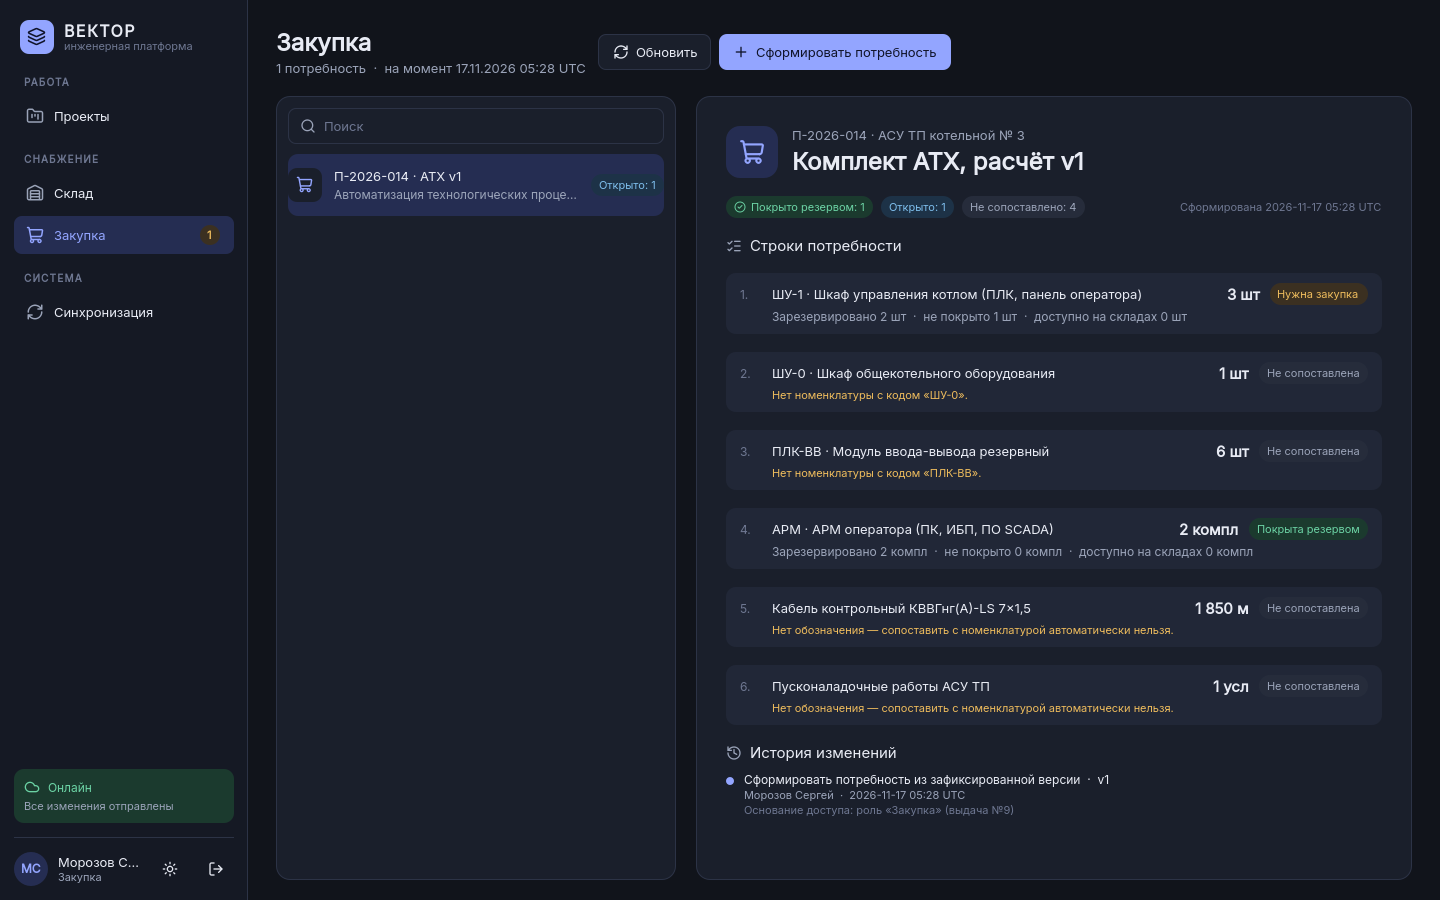
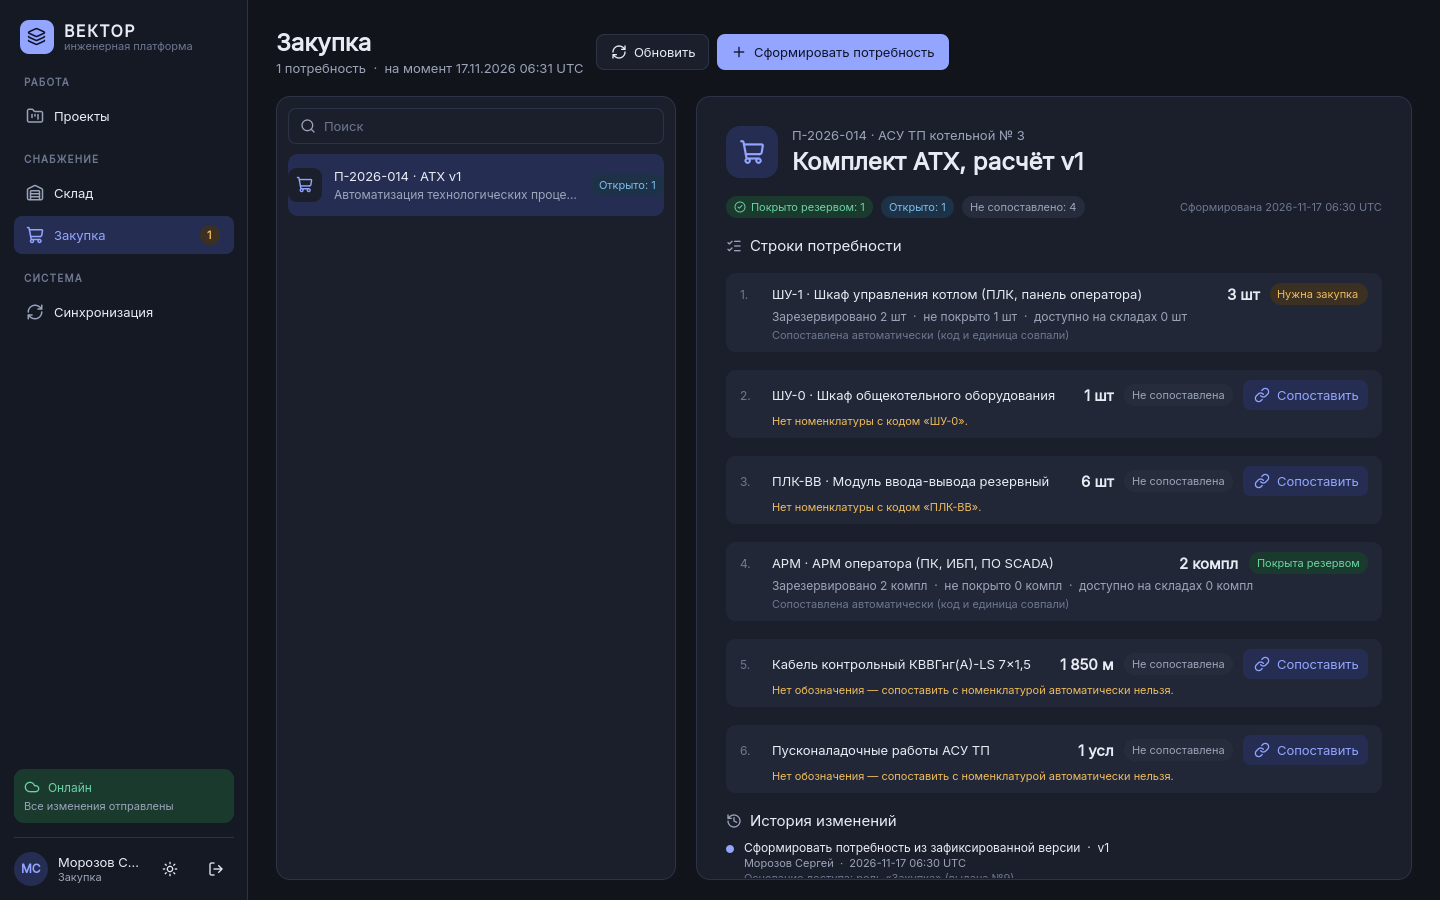
client: «Сопоставить» / «Изменить» у строки потребности — ручное сопоставление в разделе «Закупка» (A-25)
Диалог: только действующие позиции той же единицы, причина обязательна, версия потребности передаётся
(конфликт при параллельной правке). Подпись «Сопоставлена автоматически / вручную: причина». Кнопка — только
закупке, при связи и пока под строку нет резервов. Демо: кабель КВВГнг 7×1,5 в метрах (строка расчёта без
обозначения). Иконка Lucide link (ISC). Скриншоты 15, 17, новый 18.
Откат: git revert (сервер продолжит принимать команду, в интерфейсе её не будет).

diff --git a/src/vector/client/qml/ProcurementPage.qml b/src/vector/client/qml/ProcurementPage.qml
@@ -8,6 +8,8 @@ import QtQuick.Layouts
 //    Потребность — не заказ: она показывает, что нужно, что уже зарезервировано и чего не хватает.
 //  * В потребности нет цен: цены — данные расчёта, закупке в этом срезе не раскрываются.
 //  * Строка сопоставляется с номенклатурой по ТОЧНОМУ коду и единице; иначе — «не сопоставлена» с причиной.
+//    Закупка может сопоставить строку вручную («Сопоставить», A-25): позиция с той же единицей, причина
+//    обязательна, пока под строку нет резервов. Каждое решение сохраняется в истории потребности.
 //  * «Доступно» по складам — снимок «на момент …»; ГИП/РП видят потребность своего проекта без остатков
 //    (у них нет права на склад) — там «неизвестно», а не «0».
 //  * Формирование и резерв — только при связи с сервером.
@@ -87,10 +89,17 @@ MasterDetail {
                     VButton { visible: nv.can_reserve === true && !!modelData.item_id && Number(modelData.coverage.open) > 0
                               text: "Зарезервировать"; compact: true; kind: "soft"; iconName: "bookmark"
                               onClicked: lineReserve.openFor(modelData) }
+                    // Ручное сопоставление — закупка, при связи и пока под строку ничего не зарезервировано.
+                    VButton { objectName: "btnMatch"; visible: nv.can_match === true && modelData.can_rematch === true
+                              text: modelData.item_id ? "Изменить" : "Сопоставить"; compact: true
+                              kind: modelData.item_id ? "ghost" : "soft"; iconName: "link"
+                              onClicked: lineMatch.openFor(modelData) }
                 }
                 Text { visible: modelData.item_id !== null && modelData.item_id !== undefined
                        text: "Зарезервировано " + modelData.reserved_label + "  ·  не покрыто " + modelData.open_label + "  ·  доступно на складах " + modelData.available_label
                        color: Theme.textMuted; font.family: Theme.family; font.pixelSize: Theme.fsS; Layout.fillWidth: true; Layout.leftMargin: 32; wrapMode: Text.Wrap }
+                Text { visible: (modelData.match_label || "") !== ""; text: modelData.match_label || ""
+                       color: Theme.textFaint; font.family: Theme.family; font.pixelSize: Theme.fsXs; Layout.fillWidth: true; Layout.leftMargin: 32; wrapMode: Text.Wrap }
                 Text { visible: (modelData.match_note || "") !== ""; text: modelData.match_note || ""
                        color: Theme.warning; font.family: Theme.family; font.pixelSize: Theme.fsXs; Layout.fillWidth: true; Layout.leftMargin: 32; wrapMode: Text.Wrap }
             }
@@ -132,4 +141,29 @@ MasterDetail {
         VField { id: lrReason; objectName: "lrReason"; label: "Основание резерва"; required: true; placeholder: "Под монтаж …" }
     }
     Cmd { id: cLine; dialog: lineReserve }
+
+    // ---------- ручное сопоставление строки с номенклатурой (A-25)
+    FormDialog {
+        id: lineMatch
+        objectName: "lineMatch"
+        property var line: null
+        // Кандидаты: действующие позиции с ТОЙ ЖЕ единицей, кроме текущей (пересчёт единиц не выполняется).
+        readonly property var candidates: line ? (sov.items || []).filter(i => i.active !== false && i.unit === line.unit && i.id !== line.item_id)
+                                                     .map(i => ({ id: i.id, label: i.code + " · " + i.name })) : []
+        title: line ? (line.item_id ? "Изменить сопоставление: " : "Сопоставить строку: ") + (line.code || line.name) : ""
+        subtitle: line ? "«" + line.name + "», " + line.qty_label + ". Выберите позицию номенклатуры с единицей «" + line.unit
+                         + "» и укажите, почему она подходит. Решение сохранится в истории потребности." : ""
+        confirmText: "Сопоставить"
+        canConfirm: lmItem.currentValue !== "" && lmItem.currentValue !== undefined && lmReason.text.trim() !== ""
+        function openFor(l) { line = l; lmReason.text = ""; lmItem.currentIndex = 0; open() }
+        onConfirmed: cMatch.run("need.match_line", { id: backend.newId(), need_id: page.sel.id, line_id: line.line_id,
+                                                     item_id: lmItem.currentValue, reason: lmReason.text.trim() }, page.sel.version)
+        Banner { visible: lineMatch.line !== null && (lineMatch.line.match_note || "") !== ""; tone: "info"
+                 text: lineMatch.line ? "Почему не сопоставилось автоматически: " + (lineMatch.line.match_note || "") : "" }
+        Banner { visible: lineMatch.candidates.length === 0; tone: "warning"
+                 text: lineMatch.line ? "Нет действующих позиций с единицей «" + lineMatch.line.unit + "». Заведите позицию в разделе «Склад» → «Номенклатура»." : "" }
+        VSelect { id: lmItem; objectName: "lmItem"; label: "Позиция номенклатуры"; model: lineMatch.candidates }
+        VField { id: lmReason; objectName: "lmReason"; label: "Почему эта позиция"; required: true; placeholder: "Аналог по паспорту, исполнение 2 …" }
+    }
+    Cmd { id: cMatch; dialog: lineMatch }
 }

diff --git a/src/vector/client/stock_view.py b/src/vector/client/stock_view.py
@@ -130,6 +130,20 @@ def overview(warehouses: list, items: list, balances: list, reservations: list, 
             "can_edit_warehouses": is_wh, "is_warehouse": is_wh}
 
 
+def _match_label(ln: dict) -> str:
+    """Подпись «как сопоставлена строка» для карточки потребности: автоматически, вручную (с причиной и номером
+    решения) или пусто, если строка не сопоставлена (тогда показывается причина автомата).
+    """
+    src = ln.get("match_source")
+    if src == "auto":
+        return "Сопоставлена автоматически (код и единица совпали)"
+    if src == "manual":
+        n = ln.get("match_count") or 1
+        head = "Сопоставлена вручную" + (f" (решение №{n})" if n > 1 else "")
+        return head + (": " + ln["match_reason"] if ln.get("match_reason") else "")
+    return ""
+
+
 def needs_view(needs: list, candidates: list, items: list, last_pull: str, online: bool, roles: list) -> dict:
     """Экран «Закупка»: потребности со строками и покрытием, кандидаты для формирования."""
     it = {i["id"]: i for i in items}
@@ -154,7 +168,12 @@ def needs_view(needs: list, candidates: list, items: list, last_pull: str, onlin
                           "available_label": qty_label(cov["available"], unit) if cov["available"] is not None else "неизвестно",
                           "state_label": st, "state_tone": tone,
                           "item_label": (it[ln["item_id"]]["code"] + " · " + it[ln["item_id"]]["name"]) if ln.get("item_id") in it
-                          else ("сопоставлена" if ln.get("item_id") else "")})
+                          else ("сопоставлена" if ln.get("item_id") else ""),
+                          # Ручное сопоставление (A-25): чьё решение действует и можно ли его поменять. Поменять —
+                          # только пока под строку ничего не зарезервировано (сервер проверит то же самое).
+                          "match_source": ln.get("match_source"),
+                          "match_label": _match_label(ln),
+                          "can_rematch": _d(cov["reserved"]) == 0})
         open_count = sum(1 for x in lines if x["item_id"] and _d(x["coverage"]["open"]) > 0)
         out.append({**n, "lines": lines, "open_count": open_count,
                     "unmatched_count": sum(1 for x in lines if not x["item_id"]),
@@ -162,4 +181,5 @@ def needs_view(needs: list, candidates: list, items: list, last_pull: str, onlin
                     "title": f"{n.get('project_code', '')} · {n.get('kit_code', '')} v{n['calc_version_no']}"})
     return {"as_of": as_of_label(last_pull), "online": online, "needs": out, "candidates": candidates,
             "can_generate": "procurement" in roles and online, "can_reserve": "warehouse" in roles and online,
+            "can_match": "procurement" in roles and online,
             "sees_stock": "warehouse" in roles or "procurement" in roles}

diff --git a/tests/ui/test_stock_ui.py b/tests/ui/test_stock_ui.py
@@ -180,3 +180,39 @@ def test_engineer_has_no_supply_section(ui):
     ui.login("d.kuznetsov")
     nav = ui.nav()
     assert not nav["Склад"] and not nav["Закупка"]
+
+
+def test_procurement_matches_uncoded_line_by_hand(ui):
+    """Кабель в расчёте АТХ записан без обозначения → «Не сопоставлена»; закупка сопоставляет его вручную (A-25)."""
+    ui.login("s.morozov")
+    ui.go("procurement")
+    pp = next(i for i in ui.items("nv") if i.isVisible())
+    nv = _v(pp, "nv")
+    assert nv["can_match"] is True
+    atx = next(n for n in nv["needs"] if n["kit_code"] == "АТХ")
+    cable = next(ln for ln in atx["lines"] if ln["name"].startswith("Кабель контрольный"))
+    assert cable["state_label"] == "Не сопоставлена" and cable["can_rematch"] is True
+    pp.setProperty("selectedId", atx["id"])
+    ui.wait_idle()
+    dlg = _popup(ui, "lineMatch")
+    _call(dlg, "openFor", cable)
+    ui.wait_idle()
+    cands = _v(dlg, "candidates")
+    # Кандидаты — только позиции в метрах (единица строки): пересчёт единиц не выполняется.
+    assert [c["label"] for c in cands] == ["КВВГнг-7x1.5 · Кабель контрольный КВВГнг(А)-LS 7×1,5"]
+    assert dlg.property("canConfirm") is False                  # причина обязательна
+    _popup(ui, "lmReason").setProperty("text", "Тот же кабель, в расчёте без обозначения")
+    ui.wait_idle()
+    assert dlg.property("canConfirm") is True
+    QMetaObject.invokeMethod(dlg, "confirmed")
+    ui.wait_idle()
+    assert not dlg.property("visible") and dlg.property("error") == ""
+    atx = next(n for n in _v(pp, "nv")["needs"] if n["kit_code"] == "АТХ")
+    cable = next(ln for ln in atx["lines"] if ln["name"].startswith("Кабель контрольный"))
+    assert cable["match_source"] == "manual" and cable["state_label"] == "Нужна закупка"
+    assert cable["match_label"] == "Сопоставлена вручную: Тот же кабель, в расчёте без обозначения"
+    # Без связи кнопки сопоставления нет (команда только онлайн).
+    ui.transport.online = False
+    ui.backend.syncNow()
+    ui.wait_idle()
+    assert _v(pp, "nv")["can_match"] is False

diff --git a/tools/ui_harness.py b/tools/ui_harness.py
@@ -208,7 +208,7 @@ def _plain(v):
 
 
 def main():
-    """Снять скриншоты 01–17 в светлой и тёмной теме в каталог --out (по умолчанию docs/screenshots)."""
+    """Снять скриншоты 01–18 в светлой и тёмной теме в каталог --out (по умолчанию docs/screenshots)."""
     ap = argparse.ArgumentParser()
     ap.add_argument("--out", default=str(ROOT / "docs" / "screenshots"))
     args = ap.parse_args()
@@ -274,6 +274,19 @@ def main():
         pp.setProperty("selectedId", h.ids["need"])
         h.wait_idle()
         h.shot(out / f"{theme}-17-procurement-need.png")
+        # Ручное сопоставление строки без обозначения (кабель) с позицией номенклатуры (A-25).
+        nv = _plain(pp.property("nv"))
+        need = next(n for n in nv["needs"] if n["id"] == h.ids["need"])
+        cable = next(ln for ln in need["lines"] if ln["name"].startswith("Кабель контрольный"))
+        lm = next(o for o in h.win.findChildren(QObject) if o.objectName() == "lineMatch")
+        QMetaObject.invokeMethod(lm, "openFor", Q_ARG("QVariant", cable))
+        h.wait_idle()
+        next(o for o in h.win.findChildren(QObject) if o.objectName() == "lmReason").setProperty(
+            "text", "Тот же кабель, в расчёте записан без обозначения")
+        h.wait_idle()
+        h.shot(out / f"{theme}-18-procurement-match.png")
+        QMetaObject.invokeMethod(lm, "close")
+        h.wait_idle()
         h.backend.logout()
         h.wait_idle()
         h.login()

diff --git a/tests/client/test_stock_view.py b/tests/client/test_stock_view.py
@@ -124,3 +124,21 @@ def test_need_hints_by_role_and_connection():
     assert (wh["can_generate"], wh["can_reserve"], wh["sees_stock"]) == (False, True, True)
     gip = sv.needs_view([], [], [], PULL, True, ["gip"])
     assert (gip["can_generate"], gip["can_reserve"], gip["sees_stock"]) == (False, False, False)
+
+
+def test_manual_match_labels_and_rematch_hint():
+    auto = _line("a", "i1", "2.0000", "0.0000", "2.0000", "10.0000", True)
+    auto["match_source"] = "auto"
+    manual = _line("b", "i3", "1.0000", "1.0000", "0.0000", "0.0000", True)
+    manual.update(match_source="manual", match_reason="Аналог по паспорту", match_count=2)
+    none = _line("c", None, "1.0000", "0.0000", "1.0000", None, None)
+    v = sv.needs_view([_need([auto, manual, none])], [], ITEMS, PULL, True, ["procurement"])
+    ln = {x["line_id"]: x for x in v["needs"][0]["lines"]}
+    assert ln["a"]["match_label"].startswith("Сопоставлена автоматически")
+    assert ln["b"]["match_label"] == "Сопоставлена вручную (решение №2): Аналог по паспорту"
+    assert ln["c"]["match_label"] == ""
+    # Пересопоставить можно только без резервов под строку (как на сервере).
+    assert (ln["a"]["can_rematch"], ln["b"]["can_rematch"], ln["c"]["can_rematch"]) == (True, False, True)
+    assert v["can_match"] is True
+    assert sv.needs_view([], [], [], PULL, False, ["procurement"])["can_match"] is False
+    assert sv.needs_view([], [], [], PULL, True, ["warehouse"])["can_match"] is False

diff --git a/src/vector/server/demo.py b/src/vector/server/demo.py
@@ -225,7 +225,10 @@ def _seed(svc, admin_login: str, admin_password: str, demo_password: str) -> dic
     items = {}
     for code, name, unit, by in [("ШУ-1", "Шкаф управления котлом", "шт", wh), ("АРМ", "АРМ оператора", "компл", wh),
                                  ("ДД", "Датчик давления", "шт", buyer), ("ЩР-1", "Щит распределительный 0,4 кВ", "шт", wh),
-                                 ("НШВИ-1.5", "Наконечник НШВИ 1,5 мм²", "шт", wh), ("ХМТ-200", "Хомут нейлоновый 200 мм", "шт", wh)]:
+                                 ("НШВИ-1.5", "Наконечник НШВИ 1,5 мм²", "шт", wh), ("ХМТ-200", "Хомут нейлоновый 200 мм", "шт", wh),
+                                 # Кабель есть в номенклатуре, но в расчёте АТХ записан без обозначения — строка
+                                 # потребности остаётся «Не сопоставлена»: её можно сопоставить вручную (A-25).
+                                 ("КВВГнг-7x1.5", "Кабель контрольный КВВГнг(А)-LS 7×1,5", "м", buyer)]:
         items[code] = str(uuid.uuid4())
         cmd(by, "item.create", {"id": items[code], "code": code, "name": name, "unit": unit})
 
